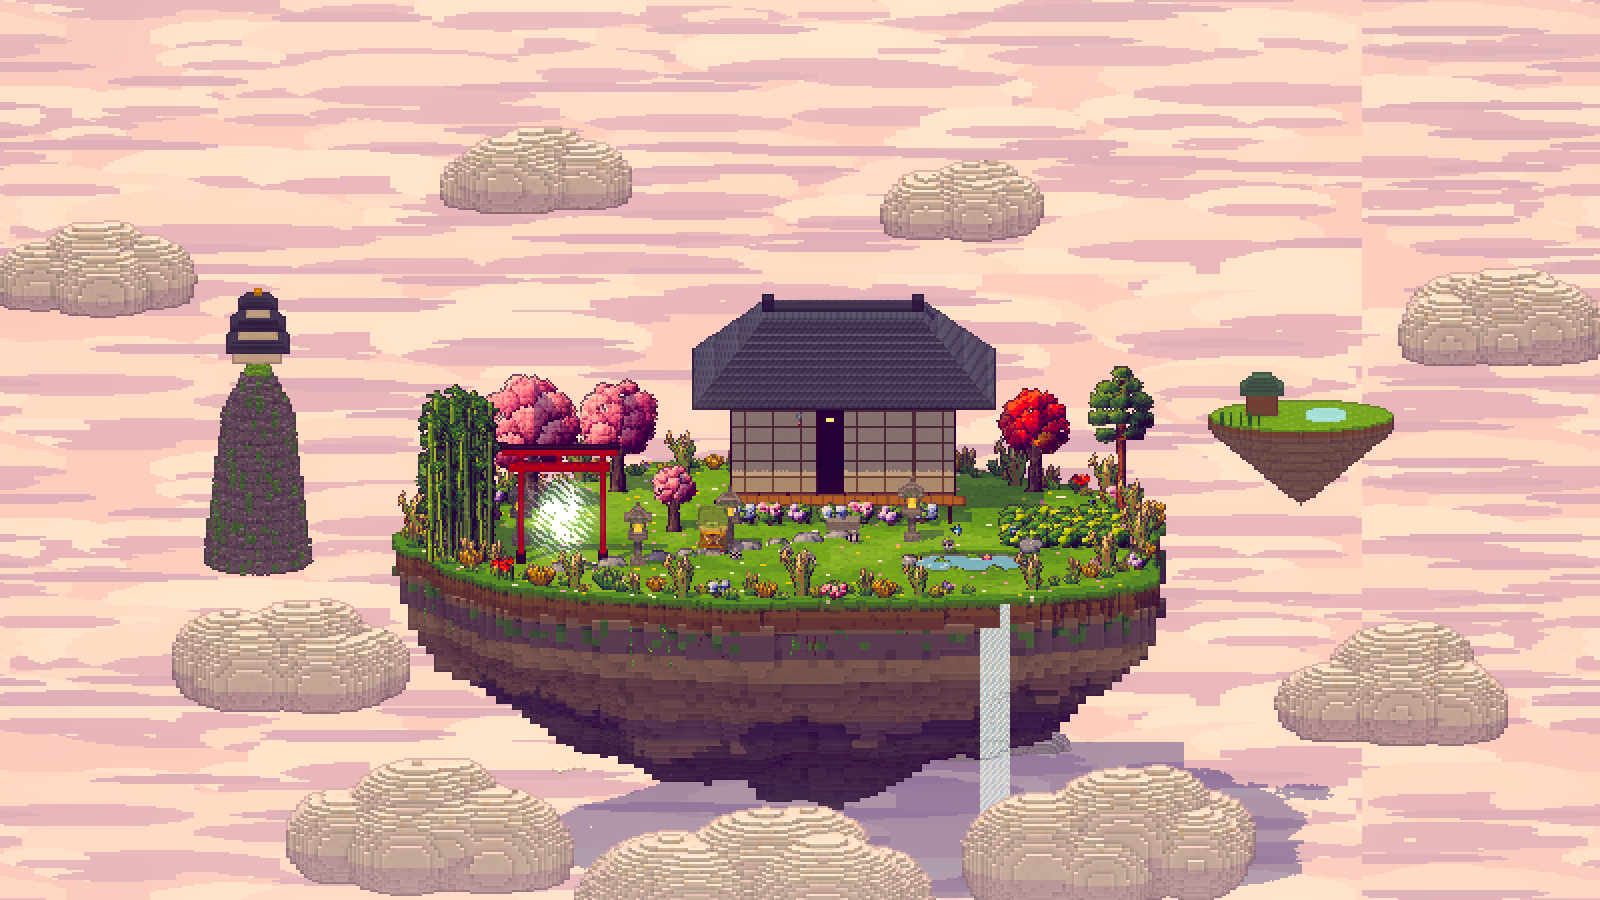
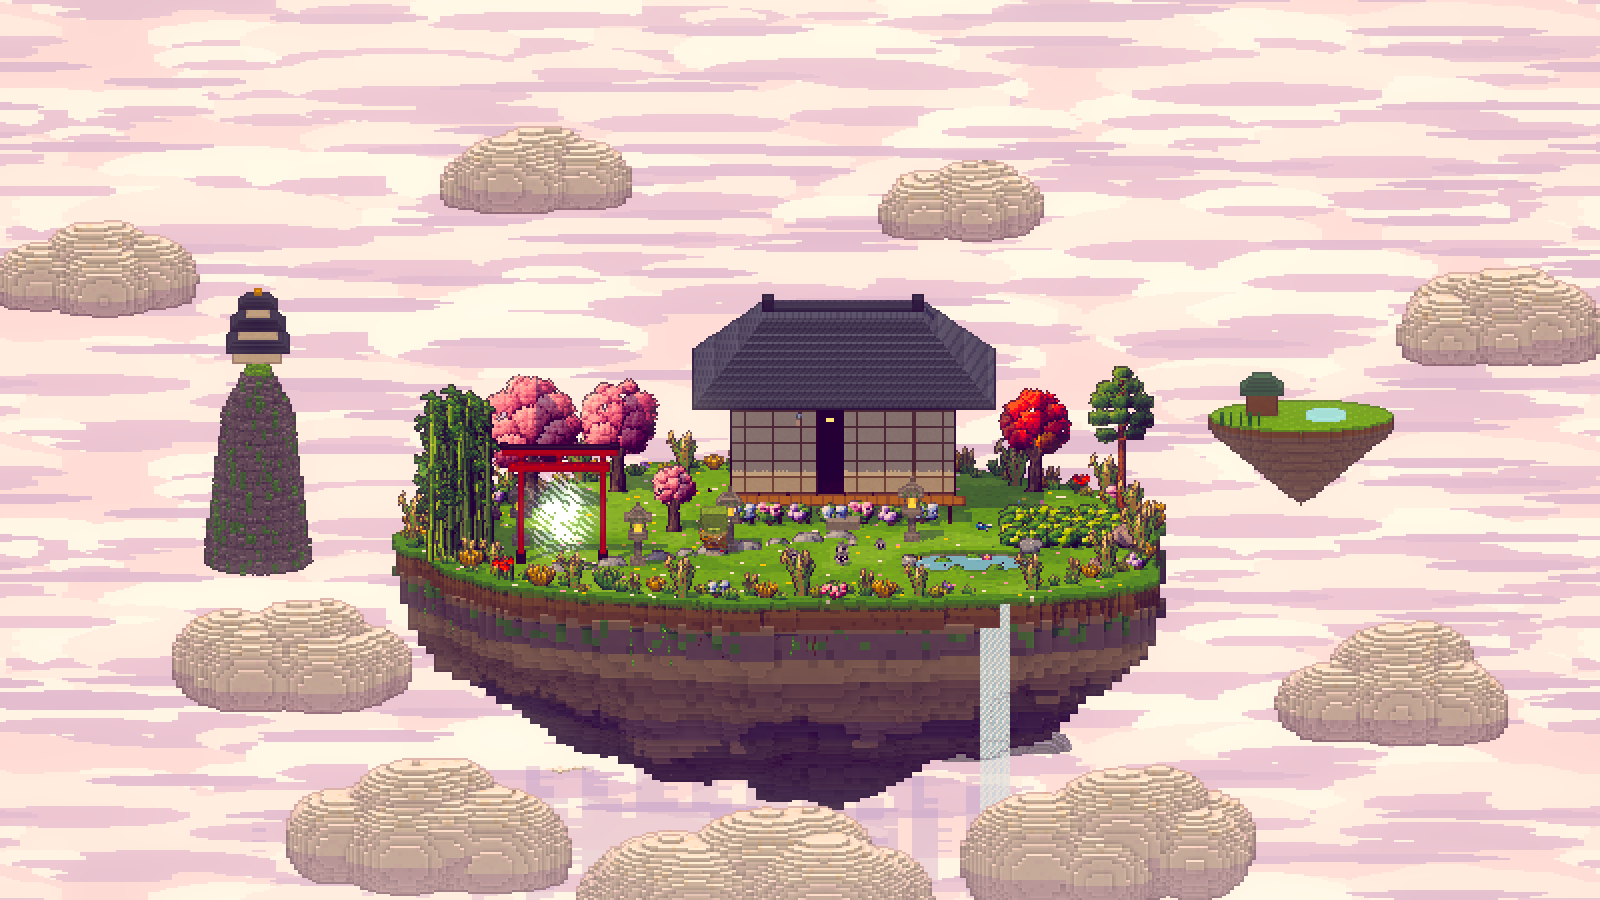
Spirit Realm: seamless cloud sea, painted island shadow
Claude-Session: https://claude.ai/code/session_016maF8WNqZF1nT1p7XNtWrQ

diff --git a/src/world/spiritIsland.js b/src/world/spiritIsland.js
@@ -266,12 +266,14 @@ export function cloudPuff(seed = 1, { r = 14, tint = 0xffffff, shade = 0xe4d6f0 
 export function cloudSea(size = 90) {
   const S = 256, p = new PixCanvas(S, S, 6030);
   p.rect(0, 0, S, S, '#f4e8f0');
-  for (let i = 0; i < 220; i++) { const x = p.rnd() * S, y = p.rnd() * S, r = 4 + p.rnd() * 14; p.ellipse(x, y, r * 1.4, r, p.rnd() < 0.5 ? '#ffffff' : '#fff6f8'); p.ellipse(x + 2, y + r * 0.6, r * 1.2, r * 0.4, '#e0d0e8'); }
-  for (let i = 0; i < 60; i++) { const x = p.rnd() * S, y = p.rnd() * S; p.ellipse(x, y, 10 + p.rnd() * 10, 3, '#d8c8e4'); }
+  // every blob is drawn at its wrapped copies too, so the tile repeats seamlessly
+  const wrap = (fn) => { for (const ox of [-S, 0, S]) for (const oy of [-S, 0, S]) fn(ox, oy); };
+  for (let i = 0; i < 220; i++) { const x = p.rnd() * S, y = p.rnd() * S, r = 4 + p.rnd() * 14, c = p.rnd() < 0.5 ? '#ffffff' : '#fff6f8'; wrap((ox, oy) => { p.ellipse(x + ox, y + oy, r * 1.4, r, c); p.ellipse(x + ox + 2, y + oy + r * 0.6, r * 1.2, r * 0.4, '#e0d0e8'); }); }
+  for (let i = 0; i < 60; i++) { const x = p.rnd() * S, y = p.rnd() * S, rr = 10 + p.rnd() * 10; wrap((ox, oy) => p.ellipse(x + ox, y + oy, rr, 3, '#d8c8e4')); }
   const tex = new THREE.CanvasTexture(p.c); tex.magFilter = THREE.NearestFilter; tex.minFilter = THREE.NearestFilter; tex.wrapS = tex.wrapT = THREE.RepeatWrapping; tex.repeat.set(size / 36, size / 36); tex.colorSpace = THREE.SRGBColorSpace;
-  const m = new THREE.Mesh(new THREE.PlaneGeometry(size, size), new THREE.MeshLambertMaterial({ map: tex }));
+  const m = new THREE.Mesh(new THREE.PlaneGeometry(size, size), new THREE.MeshBasicMaterial({ map: tex, color: 0xfff2ec }));
   m.rotation.x = -Math.PI / 2;
-  m.receiveShadow = true;
+  m.receiveShadow = false; // the shadow map doesn't reach this far; a painted shadow is used instead
   m.userData.update = (dt, t) => { tex.offset.x = (t * 0.004) % 1; tex.offset.y = (t * 0.002) % 1; };
   return m;
 }
@@ -303,4 +305,18 @@ export function tenguPeak() {
   }
   fill(v, -1, 1, 45, 47, -1, 1, 0xd8a83a);
   return grp(vm(v, V1, [0, 0, 0], { cast: false }));
+}
+
+// a soft dithered shadow cast by an island onto the cloud sea below
+export function seaShadow(rx, rz) {
+  const S = 64, p = new PixCanvas(S, S, 6040);
+  for (let y = 0; y < S; y++) for (let x = 0; x < S; x++) {
+    const d = Math.hypot((x + 0.5) / S * 2 - 1, (y + 0.5) / S * 2 - 1);
+    const k = Math.max(0, 1 - d) * 1.3;
+    if (k > ((x & 3) * 4 + (y & 3)) / 16) p.px(x, y, 'rgba(120,90,150,0.45)');
+  }
+  const tex = new THREE.CanvasTexture(p.c); tex.magFilter = THREE.NearestFilter; tex.minFilter = THREE.NearestFilter;
+  const m = new THREE.Mesh(new THREE.PlaneGeometry(rx * 2, rz * 2), new THREE.MeshBasicMaterial({ map: tex, transparent: true, depthWrite: false }));
+  m.rotation.x = -Math.PI / 2; m.renderOrder = 1;
+  return m;
 }

diff --git a/src/locations/spirit.js b/src/locations/spirit.js
@@ -7,7 +7,7 @@
 //   L.revealIslands(dur)   the cloud banks roll away (Kappa Island, the Tengu's peak)
 import * as THREE from 'three';
 import { Location } from '../game/Location.js';
-import { islandShape, islandMesh, oldHouse, toriiPortal, stoneLantern, pondWater, koi, waterfall, cloudPuff, cloudSea, kappaIsland, tenguPeak } from '../world/spiritIsland.js';
+import { islandShape, islandMesh, oldHouse, toriiPortal, stoneLantern, pondWater, koi, waterfall, cloudPuff, cloudSea, seaShadow, kappaIsland, tenguPeak } from '../world/spiritIsland.js';
 import { natureBatch, natureFrames } from '../art/nature.js';
 import { VoxelModel, vm, fill, V5 } from '../world/build.js';
 import { HokoriFlock } from '../entities/hokori.js';
@@ -44,7 +44,8 @@ export class SpiritLocation extends Location {
     const fall = waterfall(6.5); fall.position.set(POND.x + 0.6, -0.1, ez + 0.02); S.add(fall); this.updaters.push(fall.userData.update);
     this.fallFoot = { x: POND.x + 0.6, y: -6.4, z: ez + 0.1 };
     // ---- clouds: the sea below, puffs drifting round the island, banks hiding the far islands
-    const sea = cloudSea(260); sea.position.y = -8.2; S.add(sea); this.updaters.push(sea.userData.update);
+    const sea = cloudSea(260); sea.position.y = -8.2; S.add(sea);
+    const ssh = seaShadow(shape.rx * 1.1, shape.rz * 1.2); ssh.position.set(shape.cx - 2.5, -8.15, shape.cz - 3.0); S.add(ssh); this.updaters.push(sea.userData.update);
     this.puffs = [];
     const puffAt = [[-12, -3.5, 2, 18], [12.5, -4, 3, 20], [-9, -6.5, 6.5, 22], [8.5, -6.8, 7, 24], [0, -7.4, 10, 28], [-17, 4.5, -3, 15], [15, 2.4, -6, 16], [4, 4.2, -10, 13], [-5, 4.6, -11, 14]];
     puffAt.forEach(([x, y, z, r], i) => { const p = cloudPuff(i + 1, { r }); p.position.set(x, y, z); S.add(p); this.puffs.push({ m: p, x0: x, ph: i * 1.3 }); });
